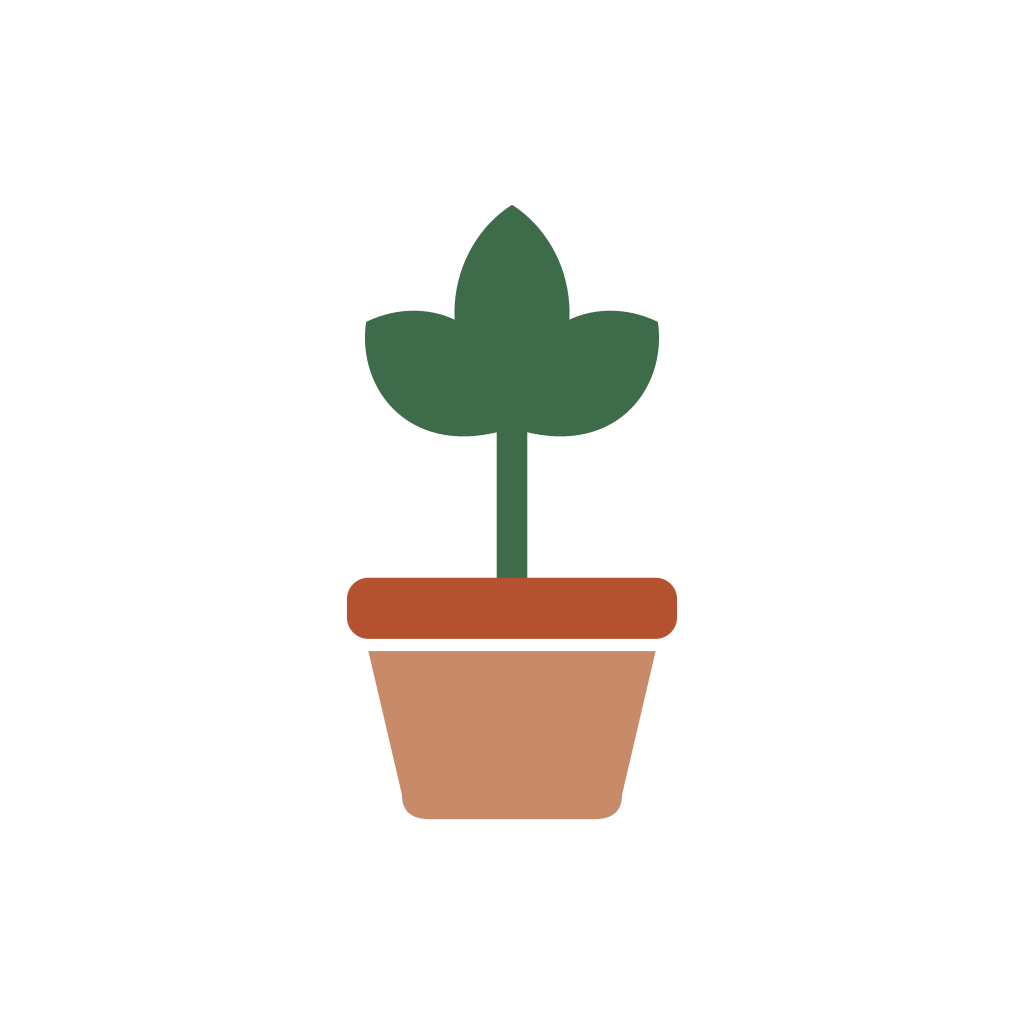
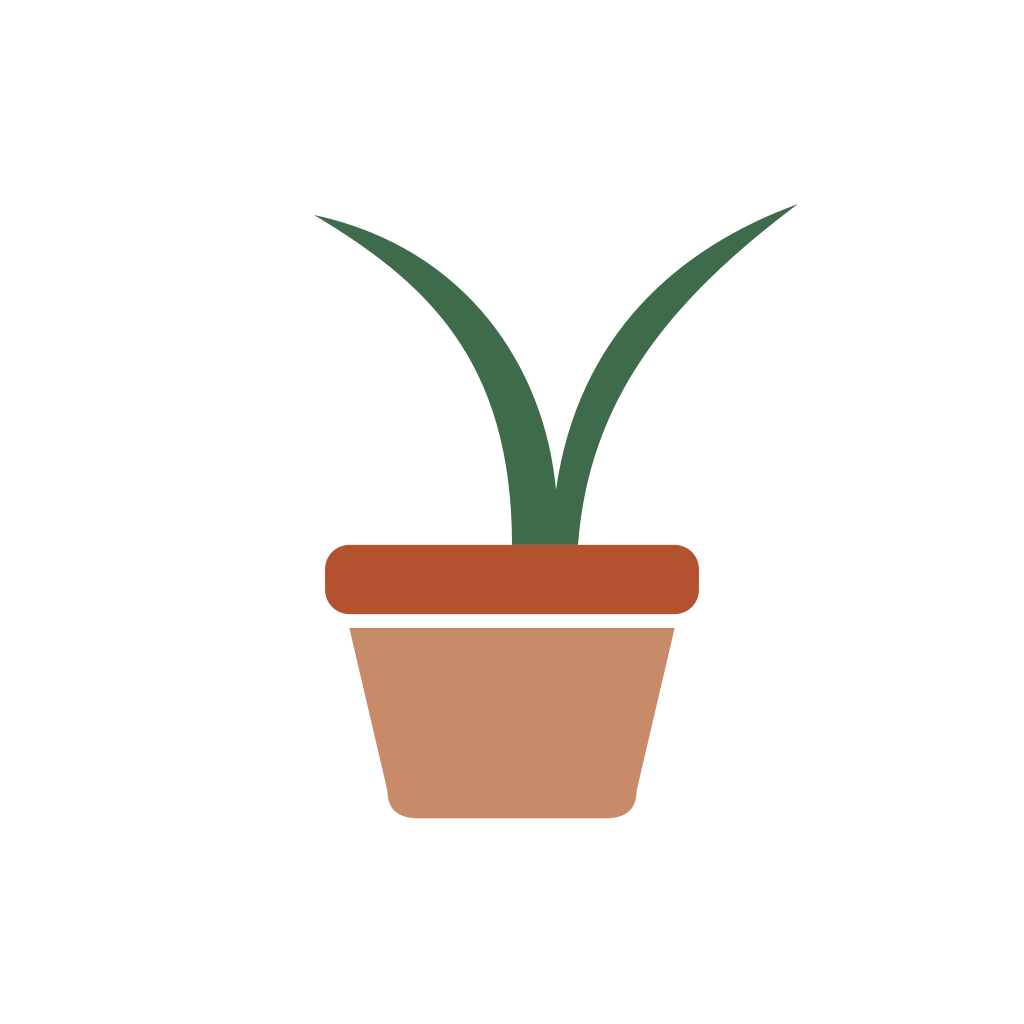
Marca nova: folha de dois ramos sobre o vaso
A folha veio desenhada pelo Ghabriel e entra sem redesenho — o path original,
encaixado pela largura do aro do vaso. Sai o caule com três folhas.

Changed region(s): [[0.3125, 0.1875, 0.75, 0.8125], [0.75, 0.1875, 0.7812, 0.2188]]

diff --git a/scripts/generate-icons.js b/scripts/generate-icons.js
@@ -8,25 +8,20 @@ const MOSS = "#3E6B4A";
 const POT = "#C88B6A";
 
 const OUT = path.join(__dirname, "..", "assets", "images");
-const LEGAL = path.join(__dirname, "..", "legal");
+const SITE = process.env.BROTO_WEB_DIR ?? path.join(__dirname, "..", "..", "web");
 
 const LEAF =
-  "M0 0 C-56 -40.12 -40.32 -96.76 0 -118 C40.32 -96.76 56 -40.12 0 0 Z";
-const CROWN =
-  "M0 0 C-58 -49.64 -41.76 -119.72 0 -146 C41.76 -119.72 58 -49.64 0 0 Z";
+  "M38 39C38 22 30 15 20 9C34 12 41 23 42 34C44 20 53 12 64 8C52 17 45 26 44 39H38Z";
+const FIT =
+  "translate(256 306) scale(6.3529) translate(-38 -39)";
 const BODY = "M-94 2 L94 2 L72 96 Q72 112 54 112 L-54 112 Q-72 112 -72 96 Z";
 
-const BOX = { cx: 256, cy: 263, height: 402 };
+const BOX = { cx: 256, cy: 287, height: 355 };
 
 function mark(plant, pot, rim) {
   return `
-  <g transform="translate(256 320)" fill="${plant}">
-    <rect x="-10" y="-136" width="20" height="150" rx="10"/>
-    <g transform="translate(0 -112)">
-      <g transform="rotate(-54)"><path d="${LEAF}"/></g>
-      <g transform="rotate(54)"><path d="${LEAF}"/></g>
-      <path d="${CROWN}"/>
-    </g>
+  <g transform="${FIT}" fill="${plant}">
+    <path d="${LEAF}"/>
   </g>
   <g transform="translate(256 352)">
     <rect x="-108" y="-46" width="216" height="40" rx="14" fill="${rim}"/>
@@ -57,25 +52,12 @@ const targets = [
     flat: "#000000",
   },
   { file: "splash-icon.png", size: 512, scale: 0.86 },
-  { file: "favicon.png", size: 196, background: SAND, scale: 0.76 },
-  { file: "mark.png", size: 240, scale: 0.9, out: LEGAL },
-  {
-    file: "favicon.png",
-    size: 180,
-    background: MOSS,
-    flat: SAND,
-    scale: 0.88,
-    radius: 112,
-    out: LEGAL,
-  },
+  { file: "favicon.png", size: 196, background: SAND, scale: 0.76, radius: 112 },
+  { file: "mark.png", size: 240, scale: 0.9, out: SITE },
+  { file: "favicon.png", size: 180, background: SAND, scale: 0.74, radius: 112, out: SITE },
 ];
 
-const SITE_FAVICON = {
-  background: MOSS,
-  flat: SAND,
-  scale: 0.88,
-  radius: 112,
-};
+const SITE_FAVICON = { background: SAND, scale: 0.74, radius: 112 };
 
 async function run() {
   fs.mkdirSync(OUT, { recursive: true });
@@ -97,7 +79,7 @@ async function run() {
   );
 
   fs.writeFileSync(
-    path.join(LEGAL, "favicon.svg"),
+    path.join(SITE, "favicon.svg"),
     canvas(SITE_FAVICON).toString(),
   );
 }

diff --git a/src/components/illustrations/Logo.tsx b/src/components/illustrations/Logo.tsx
@@ -2,9 +2,8 @@ import Svg, { G, Path, Rect } from "react-native-svg";
 
 import { theme } from "@/style/theme";
 
-const LEAF = "M0 0 C-56 -40.12 -40.32 -96.76 0 -118 C40.32 -96.76 56 -40.12 0 0 Z";
-const CROWN =
-  "M0 0 C-58 -49.64 -41.76 -119.72 0 -146 C41.76 -119.72 58 -49.64 0 0 Z";
+const LEAF = "M38 39C38 22 30 15 20 9C34 12 41 23 42 34C44 20 53 12 64 8C52 17 45 26 44 39H38Z";
+const FIT = "translate(256 306) scale(6.3529) translate(-38 -39)";
 const BODY = "M-94 2 L94 2 L72 96 Q72 112 54 112 L-54 112 Q-72 112 -72 96 Z";
 
 type LogoProps = {
@@ -19,18 +18,9 @@ export function Logo({ size = 64, tone = "color" }: LogoProps) {
   const rim = light ? theme.text.onPrimary : theme.primary.clay;
 
   return (
-    <Svg width={size} height={size} viewBox="140 55 232 420">
-      <G transform="translate(256 320)" fill={plant}>
-        <Rect x={-10} y={-136} width={20} height={150} rx={10} />
-        <G transform="translate(0 -112)">
-          <G transform="rotate(-54)">
-            <Path d={LEAF} />
-          </G>
-          <G transform="rotate(54)">
-            <Path d={LEAF} />
-          </G>
-          <Path d={CROWN} />
-        </G>
+    <Svg width={size} height={size} viewBox="135 103 292 367">
+      <G transform={FIT} fill={plant}>
+        <Path d={LEAF} />
       </G>
 
       <G transform="translate(256 352)">
